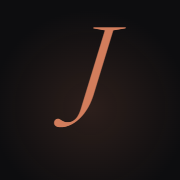
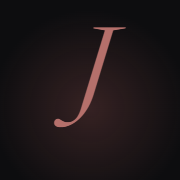
Paleta: destaque em vinho amarronzado (marsala)
- Botões de contato em vinho #955251 com texto marfim; versão clara
  #b5706b para textos pequenos, linhas finas, ícones e foco (contraste AA)
- Cores centralizadas em tokens.css; o JS lê as mesmas variáveis
- Imagem de compartilhamento e ícones regenerados na cor nova

Changed region(s): [[0.2778, 0.1389, 0.6944, 0.7222]]

diff --git a/src/styles/publication.css b/src/styles/publication.css
@@ -20,7 +20,7 @@
   position: absolute;
   inset: 0;
   z-index: -1;
-  background: radial-gradient(70% 90% at 100% 0%, rgb(210 125 92 / 0.12), transparent 60%);
+  background: radial-gradient(70% 90% at 100% 0%, rgb(var(--accent-rgb) / 0.12), transparent 60%);
   opacity: 0.6;
   pointer-events: none;
   transition: opacity 0.8s var(--ease-out);
@@ -44,12 +44,12 @@
   position: absolute;
   top: -0.08em;
   left: -0.5em;
-  color: var(--c-accent);
+  color: var(--c-accent-light);
   font-family: var(--ff-display);
   font-size: clamp(3rem, 1.8rem + 3.6vw, 5.5rem);
   font-style: italic;
   line-height: 1;
-  opacity: 0.55;
+  opacity: 0.7;
 }
 
 .pub__title {
@@ -98,7 +98,7 @@
 }
 
 .brain__net {
-  stroke: rgb(210 125 92 / 0.3);
+  stroke: rgb(var(--accent-light-rgb) / 0.35);
   stroke-width: 0.55;
 }
 
@@ -107,15 +107,15 @@
 }
 
 .brain__node--hub {
-  fill: rgb(210 125 92 / 0.9);
+  fill: var(--c-accent-light);
 }
 
 .brain__pulse {
-  fill: #e09474;
+  fill: var(--c-accent-glow);
 }
 
 .brain__halo {
-  fill: rgb(210 125 92 / 0.22);
+  fill: rgb(var(--accent-light-rgb) / 0.25);
 }
 
 /* Celular/tablet: o cérebro abre o cartão, centralizado; traços um pouco mais grossos */
@@ -195,7 +195,7 @@
 
 /* O cartão inteiro é clicável (JS, só com mouse); o link continua sendo o alvo de teclado */
 .pub__card:focus-within {
-  border-color: rgb(210 125 92 / 0.35);
+  border-color: rgb(var(--accent-light-rgb) / 0.45);
 }
 
 @media (hover: hover) and (pointer: fine) {
@@ -204,7 +204,7 @@
   }
 
   .pub__card:hover {
-    border-color: rgb(210 125 92 / 0.35);
+    border-color: rgb(var(--accent-light-rgb) / 0.45);
   }
 
   .pub__card:hover::before {
@@ -225,6 +225,6 @@
   }
 
   .pub__card:hover .brain__net {
-    stroke: rgb(210 125 92 / 0.5);
+    stroke: rgb(var(--accent-light-rgb) / 0.55);
   }
 }

diff --git a/src/components/brain.js b/src/components/brain.js
@@ -1,11 +1,11 @@
 import { gsap, ScrollTrigger } from '../core/gsap.js';
+import { cssVar } from '../core/css-var.js';
 
 const SVG_NS = 'http://www.w3.org/2000/svg';
-const GLOW = '#e09474';
 const MAX_PULSES = 3;
 
 // Cérebro em traço fino: desenha-se ao entrar na tela e, depois, pequenos impulsos
-// terracota percorrem a rede de conexões, devagar, acendendo de leve o ponto de chegada.
+// cor de vinho percorrem a rede de conexões, devagar, acendendo de leve o ponto de chegada.
 // Só roda com o cérebro visível. Retorna uma função que desfaz tudo.
 export function animateBrain(svg, { trigger = svg } = {}) {
   const strokes = svg.querySelectorAll('.brain__outline, .brain__fold');
@@ -13,6 +13,8 @@ export function animateBrain(svg, { trigger = svg } = {}) {
   const nodes = gsap.utils.toArray('.brain__node', svg);
   const pulseLayer = svg.querySelector('.brain__pulses');
   const art = svg.querySelector('.brain__art');
+
+  const glow = cssVar('--c-accent-glow');
 
   // Cor original de cada ponto (para voltar a ela depois do brilho)
   const baseFill = new Map(nodes.map((node) => [node, getComputedStyle(node).fill]));
@@ -79,7 +81,7 @@ export function animateBrain(svg, { trigger = svg } = {}) {
       // O ponto de chegada acende e volta devagar à cor original (nada piscando)
       .fromTo(
         target,
-        { fill: GLOW },
+        { fill: glow },
         { fill: baseFill.get(target), duration: 1.6, ease: 'power2.out', overwrite: 'auto', clearProps: 'fill' },
         duration - 0.2,
       );

diff --git a/src/sections/process.js b/src/sections/process.js
@@ -1,8 +1,8 @@
 import { gsap } from '../core/gsap.js';
 import { MOTION_CONDITIONS } from '../core/motion.js';
 import { revealFade, revealLines, revealUp } from '../core/reveal.js';
+import { cssVar } from '../core/css-var.js';
 
-const ACCENT = '#d27d5c';
 const SCROLL_PER_STEP = 0.8; // telas de rolagem por passo enquanto a seção está fixa
 
 export function initProcess() {
@@ -19,6 +19,7 @@ export function initProcess() {
   const progress = section.querySelector('.process__ring--progress');
   const ticks = gsap.utils.toArray('.process__tick', section); // topo, direita, base, esquerda
 
+  const accent = cssVar('--c-accent-light');
   const mm = gsap.matchMedia();
 
   mm.add(MOTION_CONDITIONS, (context) => {
@@ -70,7 +71,7 @@ export function initProcess() {
         .to(steps[i - 1], { opacity: 0, y: -24, duration: 0.3, ease: 'power2.in' }, at)
         .fromTo(step, { opacity: 0, y: 24 }, { opacity: 1, y: 0, duration: 0.3, ease: 'power2.out' }, at + 0.3)
         .to(strip, { yPercent: (-100 / steps.length) * i, ease: 'power3.inOut' }, at)
-        .to(ticks[i], { backgroundColor: ACCENT, borderColor: ACCENT, duration: 0.15 }, i - 0.05);
+        .to(ticks[i], { backgroundColor: accent, borderColor: accent, duration: 0.15 }, i - 0.05);
     });
 
     return () => section.classList.remove('is-pinned');

diff --git a/src/styles/process.css b/src/styles/process.css
@@ -40,7 +40,7 @@
 .process__step-number {
   grid-row: span 2;
   padding-top: 0.3rem;
-  color: var(--c-accent);
+  color: var(--c-accent-light);
   font-family: var(--ff-display);
   font-size: 1.75rem;
   font-variant-numeric: lining-nums;
@@ -154,7 +154,7 @@
   position: absolute;
   inset: -35%;
   z-index: -1;
-  background: radial-gradient(closest-side, rgb(210 125 92 / 0.12), transparent);
+  background: radial-gradient(closest-side, rgb(var(--accent-rgb) / 0.12), transparent);
   pointer-events: none;
 }
 
@@ -175,7 +175,7 @@
 .process__ring--progress {
   --stroke: 1.5px;
   --p: 0; /* 0 → 1, animado pela rolagem */
-  background: conic-gradient(var(--c-accent) calc(var(--p) * 1turn), transparent 0);
+  background: conic-gradient(var(--c-accent-light) calc(var(--p) * 1turn), transparent 0);
 }
 
 /* Marcas nos quartos do anel: acendem quando o progresso passa por elas */
@@ -192,8 +192,8 @@
 .process__tick--top {
   top: 0;
   left: 50%;
-  border-color: var(--c-accent);
-  background: var(--c-accent);
+  border-color: var(--c-accent-light);
+  background: var(--c-accent-light);
 }
 
 .process__tick--right {

diff --git a/src/styles/tokens.css b/src/styles/tokens.css
@@ -6,9 +6,16 @@
   --c-text: #d2ccc3; /* texto corrido: ~12:1 */
   --c-muted: #9a948c; /* texto secundário: 6,5:1 */
   --c-line: rgb(243 237 228 / 0.12); /* linhas decorativas */
-  --c-accent: #d27d5c; /* terracota: 6,3:1 */
-  --c-accent-hover: #dd8e6e;
-  --c-on-accent: #0d0d0f; /* texto sobre a terracota: 6,3:1 */
+  /* Destaque: vinho amarronzado (marsala).
+     --c-accent preenche botões e pontos (3,3:1 sobre o fundo; texto marfim nele: 5,0:1).
+     --c-accent-light é a versão clara para textos pequenos, linhas finas e foco (5,1:1). */
+  --c-accent: #955251;
+  --c-accent-hover: #874645;
+  --c-accent-light: #b5706b;
+  --c-on-accent: var(--c-ivory);
+  --accent-rgb: 149 82 81; /* para transparências: rgb(var(--accent-rgb) / 0.2) */
+  --accent-light-rgb: 181 112 107;
+  --c-accent-glow: #d6a09a; /* pontos luminosos (impulsos do cérebro, partículas) */
 
   /* Tipografia */
   /* Newsreader no lugar da Cormorant Garamond: a Cormorant desenha o circunflexo minúsculo

diff --git a/src/styles/hero.css b/src/styles/hero.css
@@ -31,8 +31,8 @@
   inset: -15% -10%;
   background:
     radial-gradient(40% 36% at 74% 30%, rgb(243 237 228 / 0.06), transparent 70%),
-    radial-gradient(36% 40% at 14% 76%, rgb(210 125 92 / 0.11), transparent 72%),
-    radial-gradient(55% 45% at 60% 108%, rgb(210 125 92 / 0.08), transparent 70%);
+    radial-gradient(36% 40% at 14% 76%, rgb(var(--accent-rgb) / 0.11), transparent 72%),
+    radial-gradient(55% 45% at 60% 108%, rgb(var(--accent-rgb) / 0.08), transparent 70%);
 }
 
 @media (prefers-reduced-motion: no-preference) {
@@ -113,7 +113,7 @@
   flex: none;
   width: 3rem;
   height: 1px;
-  background: var(--c-accent);
+  background: var(--c-accent-light);
   transform-origin: left center;
 }
 
@@ -124,7 +124,7 @@
 .hero__roles > .hero__dot {
   display: none;
   margin-inline: 0.6em;
-  color: var(--c-accent);
+  color: var(--c-accent-light);
 }
 
 .hero__lede {

diff --git a/scripts/brand/og-image.html b/scripts/brand/og-image.html
@@ -12,6 +12,7 @@
       @import '/node_modules/@fontsource-variable/newsreader/opsz.css';
       @import '/node_modules/@fontsource-variable/newsreader/opsz-italic.css';
       @import '/node_modules/@fontsource-variable/manrope/wght.css';
+      @import '/src/styles/tokens.css';
 
       html,
       body {
@@ -33,7 +34,7 @@
         position: absolute;
         inset: 0;
         background:
-          radial-gradient(45% 70% at 8% 105%, rgb(210 125 92 / 0.2), transparent 70%),
+          radial-gradient(45% 70% at 8% 105%, rgb(var(--accent-rgb) / 0.3), transparent 70%),
           radial-gradient(40% 55% at 72% 20%, rgb(243 237 228 / 0.05), transparent 70%);
       }
 
@@ -78,7 +79,7 @@
         content: '';
         width: 48px;
         height: 1px;
-        background: #d27d5c;
+        background: var(--c-accent-light);
       }
 
       .name {

diff --git a/src/styles/faq.css b/src/styles/faq.css
@@ -106,8 +106,8 @@ html:not(.js) .faq__item[open] .faq__icon::after {
 
 .faq__item.is-open .faq__icon,
 html:not(.js) .faq__item[open] .faq__icon {
-  border-color: var(--c-accent);
-  color: var(--c-accent);
+  border-color: var(--c-accent-light);
+  color: var(--c-accent-light);
 }
 
 @media (hover: hover) {
@@ -116,7 +116,7 @@ html:not(.js) .faq__item[open] .faq__icon {
   }
 
   .faq__question:hover .faq__icon {
-    border-color: rgb(210 125 92 / 0.6);
+    border-color: rgb(var(--accent-light-rgb) / 0.6);
   }
 }
 
@@ -134,7 +134,7 @@ html:not(.js) .faq__item[open] .faq__icon {
 .faq__answer a {
   color: var(--c-ivory);
   text-decoration: underline;
-  text-decoration-color: var(--c-accent);
+  text-decoration-color: var(--c-accent-light);
   text-decoration-thickness: 1px;
   text-underline-offset: 0.2em;
 }

diff --git a/src/sections/timeline.js b/src/sections/timeline.js
@@ -2,7 +2,7 @@ import { gsap, ScrollTrigger } from '../core/gsap.js';
 import { MOTION_CONDITIONS } from '../core/motion.js';
 import { revealFade, revealLines, revealUp } from '../core/reveal.js';
 
-// Altura da tela em que a ponta da linha terracota fica enquanto se desenha
+// Altura da tela em que a ponta da linha cor de vinho fica enquanto se desenha
 const LINE_TIP = '70%';
 
 export function initTimeline() {
@@ -49,7 +49,7 @@ export function initTimeline() {
     revealLines(title, { trigger: section, start: 'top 80%', delay: 0.1 });
     revealUp(intro, { trigger: section, start: 'top 80%', delay: 0.3 });
 
-    // A linha terracota se desenha acompanhando a rolagem
+    // A linha cor de vinho se desenha acompanhando a rolagem
     gsap.fromTo(
       progress,
       { scaleY: 0 },

diff --git a/src/styles/timeline.css b/src/styles/timeline.css
@@ -52,7 +52,7 @@
 .timeline__progress {
   position: absolute;
   inset: 0;
-  background: var(--c-accent);
+  background: var(--c-accent-light);
   transform-origin: top center;
 }
 
@@ -83,9 +83,9 @@
 }
 
 .timeline__item.is-active .timeline__node {
-  border-color: var(--c-accent);
-  background: var(--c-accent);
-  box-shadow: 0 0 0 6px rgb(210 125 92 / 0.12);
+  border-color: var(--c-accent-light);
+  background: var(--c-accent-light);
+  box-shadow: 0 0 0 6px rgb(var(--accent-light-rgb) / 0.14);
 }
 
 .timeline__period {
@@ -98,7 +98,7 @@
 }
 
 .timeline__now {
-  color: var(--c-accent);
+  color: var(--c-accent-light);
 }
 
 .timeline__role {
@@ -154,5 +154,5 @@
 }
 
 .timeline__note.is-active::before {
-  border-color: var(--c-accent);
+  border-color: var(--c-accent-light);
 }

diff --git a/scripts/brand/touch-icon.html b/scripts/brand/touch-icon.html
@@ -10,6 +10,7 @@
     <title>Ícone</title>
     <style>
       @import '/node_modules/@fontsource-variable/newsreader/opsz-italic.css';
+      @import '/src/styles/tokens.css';
 
       html,
       body {
@@ -22,11 +23,11 @@
         width: 180px;
         height: 180px;
         overflow: hidden;
-        background: radial-gradient(circle at 50% 60%, rgb(210 125 92 / 0.16), transparent 70%), #0d0d0f;
+        background: radial-gradient(circle at 50% 60%, rgb(var(--accent-rgb) / 0.3), transparent 70%), #0d0d0f;
       }
 
       span {
-        color: #d27d5c;
+        color: var(--c-accent-light);
         font-family: 'Newsreader Variable', serif;
         font-size: 138px;
         font-style: italic;

diff --git a/src/styles/help.css b/src/styles/help.css
@@ -111,12 +111,12 @@
 
 .help__card::before {
   z-index: -1;
-  background: radial-gradient(26rem circle at var(--mx) var(--my), rgb(210 125 92 / 0.11), transparent 60%);
+  background: radial-gradient(26rem circle at var(--mx) var(--my), rgb(var(--accent-rgb) / 0.11), transparent 60%);
 }
 
 .help__card::after {
   padding: 1px;
-  background: radial-gradient(18rem circle at var(--mx) var(--my), rgb(210 125 92 / 0.65), transparent 70%);
+  background: radial-gradient(18rem circle at var(--mx) var(--my), rgb(var(--accent-light-rgb) / 0.6), transparent 70%);
   -webkit-mask:
     linear-gradient(#000 0 0) content-box,
     linear-gradient(#000 0 0);
